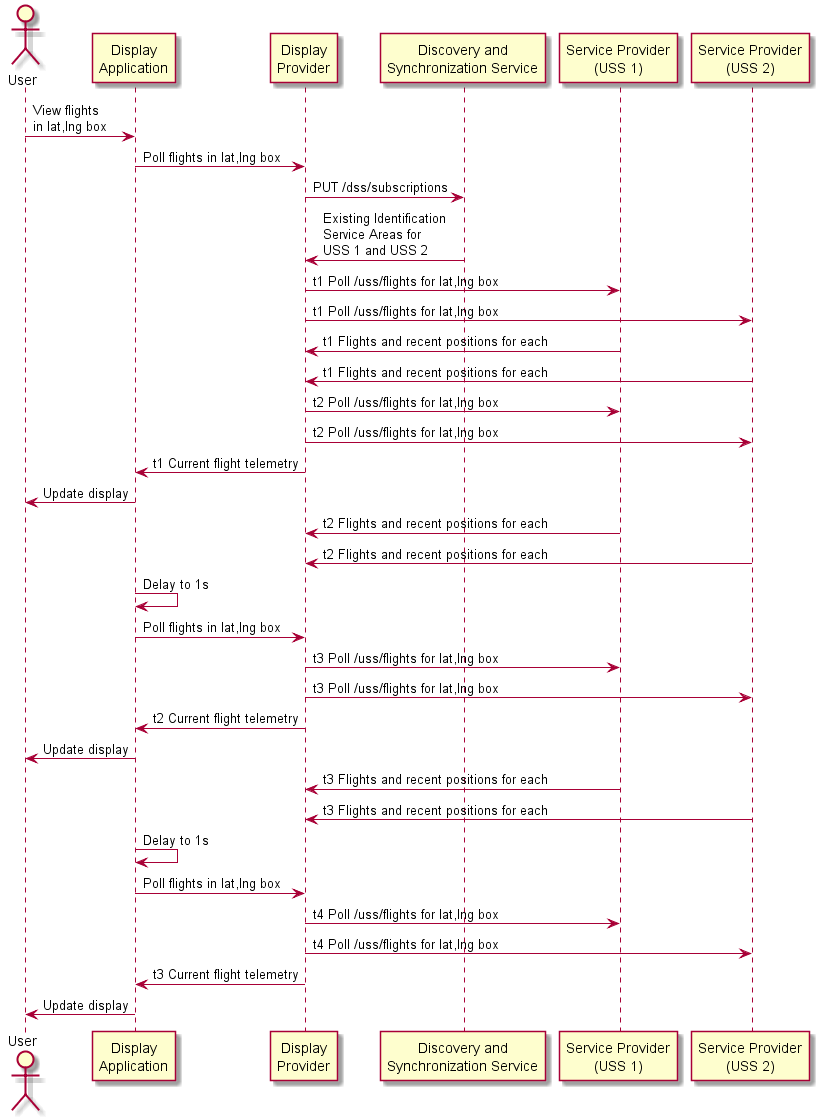
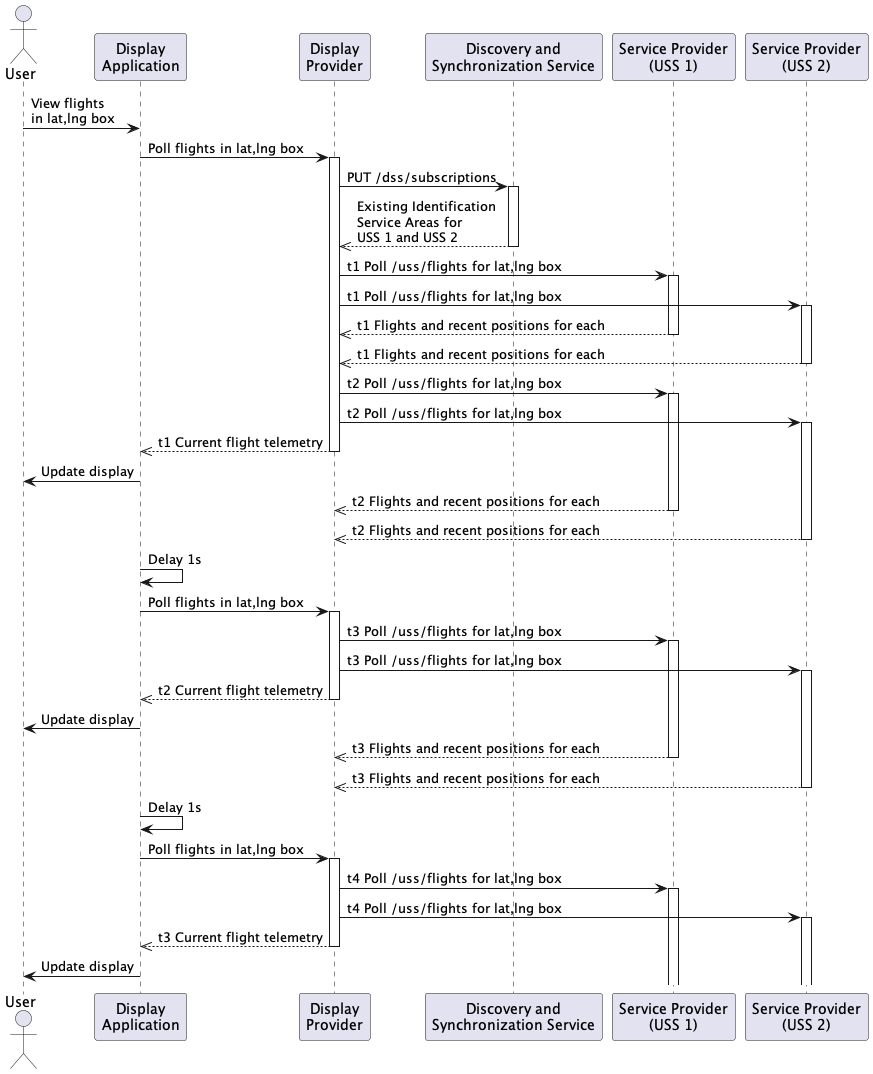
[docs] Update DSS concept doc (#1009)
* Update DSS Concept doc and diagrams

UML sequence diagrams are now closer to UML spec, but no functional changes to the diagrams. Started the ASTM F3548-21 section, which was previously "Strategic Deconfliction" and was out of date.

* Updated rid display diagram with activations

* Bugs in arrow types fixed

diff --git a/concepts.md b/concepts.md
@@ -23,7 +23,7 @@ In the example sequence diagram below, an Entity consumer (such as a Remote ID D
 A DSS Region consists of one or more synchronized DSS instances.  From a client perspective, interacting with any DSS instance within the DSS Region is equivalent to interacting with any other DSS instance within the DSS Region.  For instance, an Entity may be written to one DSS instance and then read from a different DSS instance because all DSS instances in a DSS Region share a common DSS Airspace Representation (DAR).  The implementation of the DAR is a single distributed CockroachDB cluster per DSS Region.  The expectation is that multiple separate organizations will each host a DSS instance in the same DSS Region, and each DSS instance will be accompanied with some number of CockroachDB nodes which join into the same cluster.  With a relatively small number of DSS instances, each organization will host a full replica of the CockroachDB database in its nodes.  And in any case, the CockroachDB database will transparently survive the total loss of one or more organizations' DSS instances and CockroachDB nodes as long as there are a sufficient number of DSS instances in the DSS Region.
 
 ### Behavioral details
-The DSS does not store details of Entities, and specifically it does not store their precise 4D volumes.  Instead, each Entity is mapped into the DSS Airspace Representation (DAR), which happens to be S2 cells at a fixed zoom level currently, and then the precise extents are discarded as required by requirement DSS0040.  This means that true intersection tests between Entities cannot be performed.  If two Entities intersect, they are guaranteed to share at least one common DAR cell.  But, two Entities sharing a DAR cell do not necessarily intersect.  Because the DSS returns all relevant Entities in relevant DAR cells, some Entities that are nearby the area of interest may be returned even though those Entities are, in fact, entirely disjoint from the area of interest.
+The DSS does not store details of Entities, and specifically it does not store their precise 4D volumes.  Instead, each Entity is mapped into the DAR, which happens to be [S2](http://s2geometry.io/) cells at a fixed zoom level [currently](./pkg/geo/s2.go), and then the precise extents are discarded as required by requirement DSS0040.  This means that true intersection tests between Entities cannot be performed.  If two Entities intersect, they are guaranteed to share at least one common DAR cell.  But, two Entities sharing a DAR cell do not necessarily intersect.  Because the DSS returns all relevant Entities in relevant DAR cells, some Entities that are nearby the area of interest may be returned even though those Entities are, in fact, entirely disjoint from the area of interest.
 
 ## Remote ID
 
@@ -40,6 +40,20 @@ End users of remote ID (members of the general public) access remote ID through 
 
 ![Remote ID telemetry consumption sequence diagram](assets/generated/rid_display.png)
 
-## Strategic deconfliction
-<!-- TODO: Needs update -->
-Although it is envisioned that the DSS will also coordinate strategic deconfliction during flight planning, this functionality is not currently supported in this implementation of a DSS.  In the future, strategic deconfliction will likely be supported through the use of new types of Entities representing flight operations and non-operation constraints, as well as a synchronization system that ensures anyone planning a new flight operation was aware of all relevant information while planning.
+## USS Interoperability
+
+### Overview
+ASTM Standard [F3548-21](https://www.astm.org/f3548-21.html), "Standard Specification for UAS Traffic Management (UTM) UAS Service Supplier (USS) Interoperability," defines interactions between USSs to support various services requiring interoperability between those USSs. The DSS is a key facilitiator in these interactions.
+
+### Services
+The standard defines multiple services:
+
+* Strategic Conflict Detection (SCD)
+* Constraint Management
+* Constraint Processing
+* Conformance Monitoring for Situational Awareness (CMSA)
+* Aggregate Operational Intent Conformance Monitoring (ACM)
+
+Each of these other than ACM require coordination between USSs and this is facilitated by the DSS similarly to the support provided to RemoteID described above.
+
+The endpoints for the USSs to use DSS are well-defined and involve managing subscriptions and entities within DSS.
